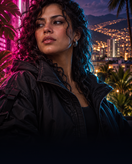
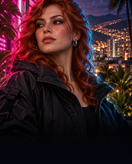
Refresh Luna card, compact HUD image and distant facades

Changed region(s): [[0.0909, 0.0, 0.7879, 0.6707], [0.0606, 0.3963, 0.0909, 0.4573]]

diff --git a/Narcade (My Own GTA)/src/game.c b/Narcade (My Own GTA)/src/game.c
@@ -773,7 +773,7 @@ static void foot_pace(int moving,float dt){
 }
 static void stamina_tick(float dt){
  if(g.car<0&&!g.inMetro&&g.footTravel>.01f&&g.sprintTime>0&&!g.exhausted){
-  g.stamina=fmaxf(0,g.stamina-dt*(100.f/6));
+  g.stamina=fmaxf(0,g.stamina-dt*(100.f/8)); /* eight seconds of sustained sprint */
   if(g.stamina<=0){g.exhausted=1;g.sprintTime=0;g.runTaps=0;notice("Cansado: trota mientras recuperas la estamina.");}
  }else{
   g.stamina=fminf(100,g.stamina+dt*(g.footTravel>.01f?12.5f:18.f));
@@ -1316,6 +1316,13 @@ static void hud_plaque(int cx,int y,int w,int h,uint32_t accent){
  rect(x+10,y+2,24,1,accent);rect(x+10,y+h-3,13,1,accent);
  rect(x+w-23,y+h-3,11,1,RGB(119,67,125));
 }
+static inline void pxa(int x,int y,uint32_t c,int a);
+static void hud_meter_frame(int x,int y){
+ for(int row=0;row<36;row++)for(int col=0;col<114;col++){
+  unsigned p=hud_meter_frame_v253[row*114+col],a=(p>>12)*17;
+  if(a)pxa(x+col,y+row,RGB((p&15)*17,((p>>4)&15)*17,((p>>8)&15)*17),a);
+ }
+}
 /* v2.6: el minimapa se dibuja cada fotograma (3.200 muestras); el trazado se precalcula en una rejilla de 4 unidades
    (640x560 bytes = 358 KB) para no evaluar poligonos por pixel. Codigos: 0 fuera, 1 rio, 2 calle, 3 acera/plaza, 4 parque, 5 edificio. */
 #define MG_STEP 4
@@ -1426,14 +1433,13 @@ static void hud(void){
  /* Objetivo nuevo: frase temporal abajo. */
  if(g.screen==WORLD&&g.mission<36){int key=g.mission*8+g.step+1;if(key!=g.hudStepKey){g.hudStepKey=key;const Step *st=step_now();snprintf(b,sizeof(b),"%s  /  %s",locations[st->loc].name,st->text);g.hudObjectiveT=fmaxf(5.f,3.8f*hud_pages(locale_text(b),-1,NULL,0));}}
  /* Esquina superior derecha: vida, carro, dinero, busqueda. */
- hud_plaque(W-77,5,148,38,RGB(75,208,226));
+ hud_meter_frame(365,5);
  const float meters[2]={g.health,g.car>=0?g.cars[g.car].hp:g.stamina};
- const char *labels[2]={"HP",g.car>=0?"AUTO":"STA"};
- for(int row=0;row<2;row++){int yy=11+row*14;uint32_t active=row==0?(g.health>30?TEAL:CORAL):(g.exhausted?CORAL:GOLD);
-  font_text(W-144,yy-2,labels[row],active,1,0);
-  rect(W-111,yy-1,100,9,RGB(17,28,37));
+ const char *labels[2]={"HP",g.car>=0?"CAR":"STA"};
+ for(int row=0;row<2;row++){int yy=12+row*14;uint32_t active=row==0?(g.health>30?TEAL:CORAL):(g.exhausted?CORAL:GOLD);
+  font_text(370,yy-2,labels[row],active,1,0);
   int fill=(int)(clampf(meters[row],0,100)/10.f+.01f);
-  for(int seg=0;seg<10;seg++)rect(W-109+seg*10,yy+1,8,5,seg<fill?active:RGB(50,65,73));
+  for(int seg=0;seg<10;seg++)if(seg<fill)rect(394+seg*8,yy+2,6,5,active);
  }
  snprintf(b,sizeof(b),"$%d",g.cash);text(W-10-(int)strlen(b)*7,47,b,WHITE,1);
  if(wanted_stars()>=1){int blink=g.escape>0&&((int)(g.clock*4)&1);for(int i=0;i<5;i++)rect(W-122+i*10,61,7,4,wanted_stars()>i?(blink?RGB(120,70,60):CORAL):RGB(40,48,50));}

diff --git a/Narcade (My Own GTA)/tools/build_hud_v253.py b/Narcade (My Own GTA)/tools/build_hud_v253.py
@@ -1,0 +1,32 @@
+"""Build the compact translucent HUD frame used by the two live meters."""
+from pathlib import Path
+from PIL import Image, ImageDraw
+import struct
+
+ROOT = Path(__file__).resolve().parents[1] / 'assets'
+W, H = 114, 36
+im = Image.new('RGBA', (W, H), (0, 0, 0, 0))
+d = ImageDraw.Draw(im)
+d.polygon([(6, 0), (W-7, 0), (W-1, 6), (W-1, H-7), (W-7, H-1),
+           (6, H-1), (0, H-7), (0, 6)], fill=(7, 14, 27, 223),
+          outline=(58, 113, 133, 210))
+d.line([(8, 2), (W-9, 2)], fill=(113, 214, 225, 190), width=1)
+d.line([(8, H-3), (W-9, H-3)], fill=(43, 82, 100, 195), width=1)
+d.line([(4, 7), (4, H-8)], fill=(46, 171, 192, 180), width=1)
+d.line([(W-5, 7), (W-5, H-8)], fill=(177, 95, 139, 175), width=1)
+
+# Two empty recesses; game.c adds only the illuminated fill segments.
+for top in (7, 21):
+    d.rounded_rectangle((27, top, 106, top+8), radius=2,
+                        fill=(13, 29, 39, 245), outline=(58, 81, 91, 225))
+    for segment in range(10):
+        x = 29 + segment * 8
+        d.rectangle((x, top+2, x+5, top+6), fill=(35, 51, 59, 210))
+    d.line((27, top+1, 106, top+1), fill=(121, 173, 178, 80))
+
+im.save(ROOT / 'hud-meter-frame-v253.png')
+raw = bytearray()
+for r, g, b, a in im.getdata():
+    raw += struct.pack('<H', (r >> 4) | ((g >> 4) << 4) |
+                       ((b >> 4) << 8) | ((a >> 4) << 12))
+(ROOT / 'hud-meter-frame-v253.4444').write_bytes(raw)

diff --git a/Narcade (My Own GTA)/tools/build_title_ui.py b/Narcade (My Own GTA)/tools/build_title_ui.py
@@ -33,7 +33,7 @@ for n, half in enumerate((cards.crop((0, 0, cards.width // 2, cards.height)),
 for name,source,size in [
     ('continue','loading-v241/valley-source.jpg',(146,94)),
     ('new','loading-v241/street-source.jpg',(146,94)),
-    ('settings','luna-menu-source.png',(132,164)),
+    ('settings','luna-menu-source-v253.png',(132,164)),
     ('credits','loading-v241/rooftop-source.jpg',(146,56)),
     ('trophies','trophies-menu-source-v246.png',(146,56))]:
     im=ImageOps.fit(Image.open(ASSETS/source).convert('RGB'),size,method=Image.Resampling.LANCZOS)

diff --git a/Narcade (My Own GTA)/src/assets.h b/Narcade (My Own GTA)/src/assets.h
@@ -5,5 +5,6 @@ static const char *track_names[] = {"Ladera FM / Concreto y cielo","Rio 90.7 / P
 extern const short radio_data[];
 extern const unsigned short title_cover_v213[],title_menu_v213[];
 extern const unsigned short menu_new_v242[],menu_continue_v242[],menu_settings_v242[],menu_credits_v242[],menu_trophies_v242[];
+extern const unsigned short hud_meter_frame_v253[];
 extern const unsigned char title_labels_v213[];
 extern const unsigned short narcade_logo_small_v244[];
